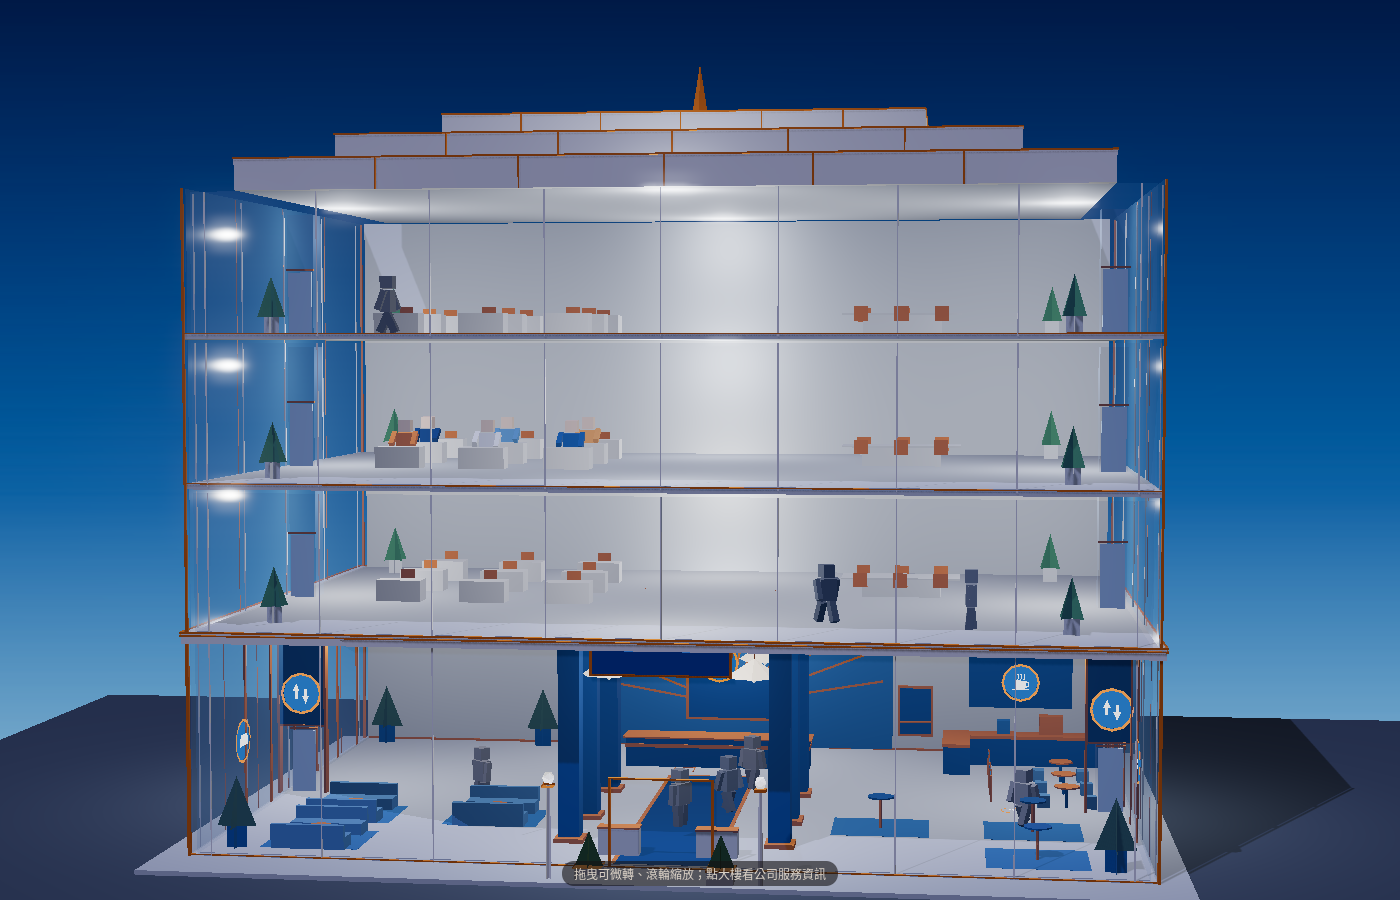
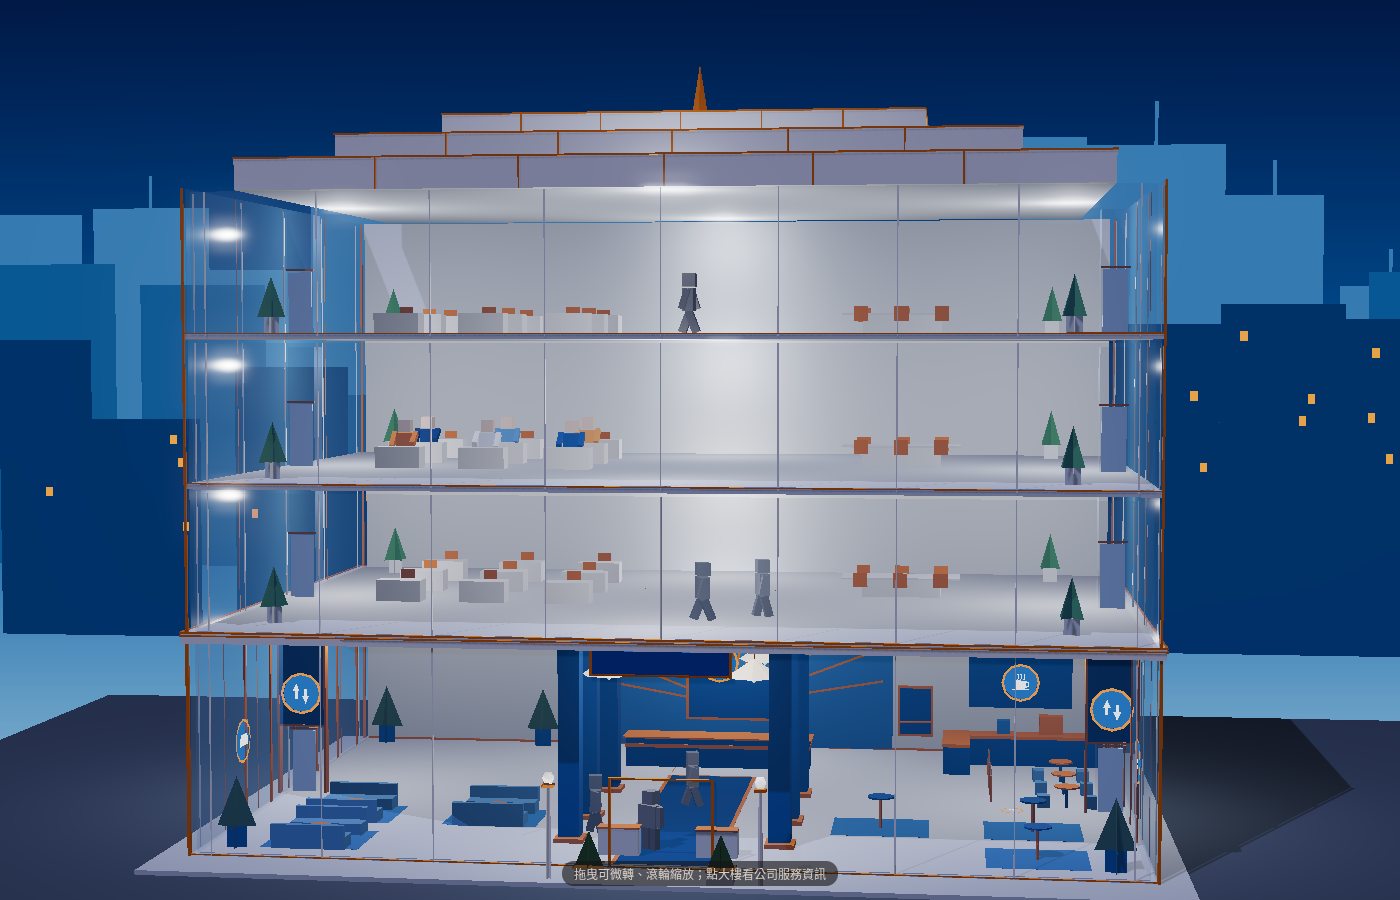
P007: city skyline silhouette background (3 flat layers + window dots)

diff --git a/site/index.html b/site/index.html
@@ -320,6 +320,20 @@ for (let k = 0; k < 90; k++) people(1 / 30, k / 30);
 function loop() { requestAnimationFrame(loop); const t = clock.getElapsedTime(), dt = Math.min(.1, t - last); last = t; if (!SHOT) people(dt, t);
   if (tweenT < 1) { tweenT = Math.min(1, tweenT + .045); const k = 1 - Math.pow(1 - tweenT, 3); camera.position.lerpVectors(from.p, camPos, k); controls.target.lerpVectors(from.t, target, k); }
   controls.update(); tags(); composer.render(); }
+{ // city skyline: flat silhouettes in 3 depths, unlit, no shadows, not clickable
+  let sd = 7; const R = () => (sd = (sd * 16807) % 2147483647) / 2147483647;
+  const LAY = [{ z: -95, c: 0x1B3D66, hMin: 6, hMax: 20, w: [5, 11] }, { z: -150, c: 0x285886, hMin: 10, hMax: 32, w: [7, 15] }, { z: -220, c: 0x3C70A2, hMin: 14, hMax: 46, w: [9, 20] }];
+  const WIN = []; const sky = new THREE.Group(); sky.name = 'SKYLINE';
+  LAY.forEach((l, li) => { const parts = []; let x = -260;
+    while (x < 260) { const w = l.w[0] + R() * (l.w[1] - l.w[0]), h = l.hMin + R() * (l.hMax - l.hMin), gap = R() < .25 ? 1 + R() * 3 : 0;
+      const g = new THREE.PlaneGeometry(w, h + 8); g.translate(x + w / 2, (h + 8) / 2 - 8, l.z); parts.push(g);
+      if (R() < .2) { const s = new THREE.PlaneGeometry(.5, 4 + R() * 5); s.translate(x + w / 2, h + 2, l.z); parts.push(s); }
+      if (li === 0 && R() < .55) { const n = 1 + Math.floor(R() * 3); for (let k = 0; k < n; k++) WIN.push([x + 1 + R() * (w - 2), 1 + R() * (h - 2), l.z + .05]); }
+      x += w + gap; }
+    const m = new THREE.Mesh(mergeGeometries(parts), new THREE.MeshBasicMaterial({ color: l.c, fog: false })); m.renderOrder = -10 + li; m.raycast = () => {}; sky.add(m); });
+  const wm = new THREE.InstancedMesh(new THREE.PlaneGeometry(.55, .75), new THREE.MeshBasicMaterial({ color: 0xE98A3A }), WIN.length); const o = new THREE.Object3D();
+  WIN.forEach((p, i) => { o.position.set(p[0], p[1], p[2]); o.updateMatrix(); wm.setMatrixAt(i, o.matrix); }); wm.raycast = () => {}; sky.add(wm);
+  scene.add(sky); }
 function stats() { let tris = 0, meshes = 0; scene.updateMatrixWorld(true); scene.traverse(x => { if (!x.isMesh || !x.visible || (x.material && x.material.visible === false)) return; meshes++; const g = x.geometry, n = (g.index ? g.index.count : g.attributes.position.count) / 3; tris += n * (x.isInstancedMesh ? x.count : 1); }); return { tris: Math.round(tris), meshes }; }
 window.Tower = { stats, scene };
 if (SHOT === 'floor3') { const y = floorY['3F']; controls.minDistance = 1; tweenT = 1; target.set(-7.5, y + 1.1, -1.5); camPos.set(-6.8, y + 3.6, 15.5); camera.position.copy(camPos); controls.target.copy(target); }

diff --git a/tools/tail.js b/tools/tail.js
@@ -83,6 +83,20 @@ for (let k = 0; k < 90; k++) people(1 / 30, k / 30);
 function loop() { requestAnimationFrame(loop); const t = clock.getElapsedTime(), dt = Math.min(.1, t - last); last = t; if (!SHOT) people(dt, t);
   if (tweenT < 1) { tweenT = Math.min(1, tweenT + .045); const k = 1 - Math.pow(1 - tweenT, 3); camera.position.lerpVectors(from.p, camPos, k); controls.target.lerpVectors(from.t, target, k); }
   controls.update(); tags(); composer.render(); }
+{ // city skyline: flat silhouettes in 3 depths, unlit, no shadows, not clickable
+  let sd = 7; const R = () => (sd = (sd * 16807) % 2147483647) / 2147483647;
+  const LAY = [{ z: -95, c: 0x1B3D66, hMin: 6, hMax: 20, w: [5, 11] }, { z: -150, c: 0x285886, hMin: 10, hMax: 32, w: [7, 15] }, { z: -220, c: 0x3C70A2, hMin: 14, hMax: 46, w: [9, 20] }];
+  const WIN = []; const sky = new THREE.Group(); sky.name = 'SKYLINE';
+  LAY.forEach((l, li) => { const parts = []; let x = -260;
+    while (x < 260) { const w = l.w[0] + R() * (l.w[1] - l.w[0]), h = l.hMin + R() * (l.hMax - l.hMin), gap = R() < .25 ? 1 + R() * 3 : 0;
+      const g = new THREE.PlaneGeometry(w, h + 8); g.translate(x + w / 2, (h + 8) / 2 - 8, l.z); parts.push(g);
+      if (R() < .2) { const s = new THREE.PlaneGeometry(.5, 4 + R() * 5); s.translate(x + w / 2, h + 2, l.z); parts.push(s); }
+      if (li === 0 && R() < .55) { const n = 1 + Math.floor(R() * 3); for (let k = 0; k < n; k++) WIN.push([x + 1 + R() * (w - 2), 1 + R() * (h - 2), l.z + .05]); }
+      x += w + gap; }
+    const m = new THREE.Mesh(mergeGeometries(parts), new THREE.MeshBasicMaterial({ color: l.c, fog: false })); m.renderOrder = -10 + li; m.raycast = () => {}; sky.add(m); });
+  const wm = new THREE.InstancedMesh(new THREE.PlaneGeometry(.55, .75), new THREE.MeshBasicMaterial({ color: 0xE98A3A }), WIN.length); const o = new THREE.Object3D();
+  WIN.forEach((p, i) => { o.position.set(p[0], p[1], p[2]); o.updateMatrix(); wm.setMatrixAt(i, o.matrix); }); wm.raycast = () => {}; sky.add(wm);
+  scene.add(sky); }
 function stats() { let tris = 0, meshes = 0; scene.updateMatrixWorld(true); scene.traverse(x => { if (!x.isMesh || !x.visible || (x.material && x.material.visible === false)) return; meshes++; const g = x.geometry, n = (g.index ? g.index.count : g.attributes.position.count) / 3; tris += n * (x.isInstancedMesh ? x.count : 1); }); return { tris: Math.round(tris), meshes }; }
 window.Tower = { stats, scene };
 if (SHOT === 'floor3') { const y = floorY['3F']; controls.minDistance = 1; tweenT = 1; target.set(-7.5, y + 1.1, -1.5); camPos.set(-6.8, y + 3.6, 15.5); camera.position.copy(camPos); controls.target.copy(target); }
